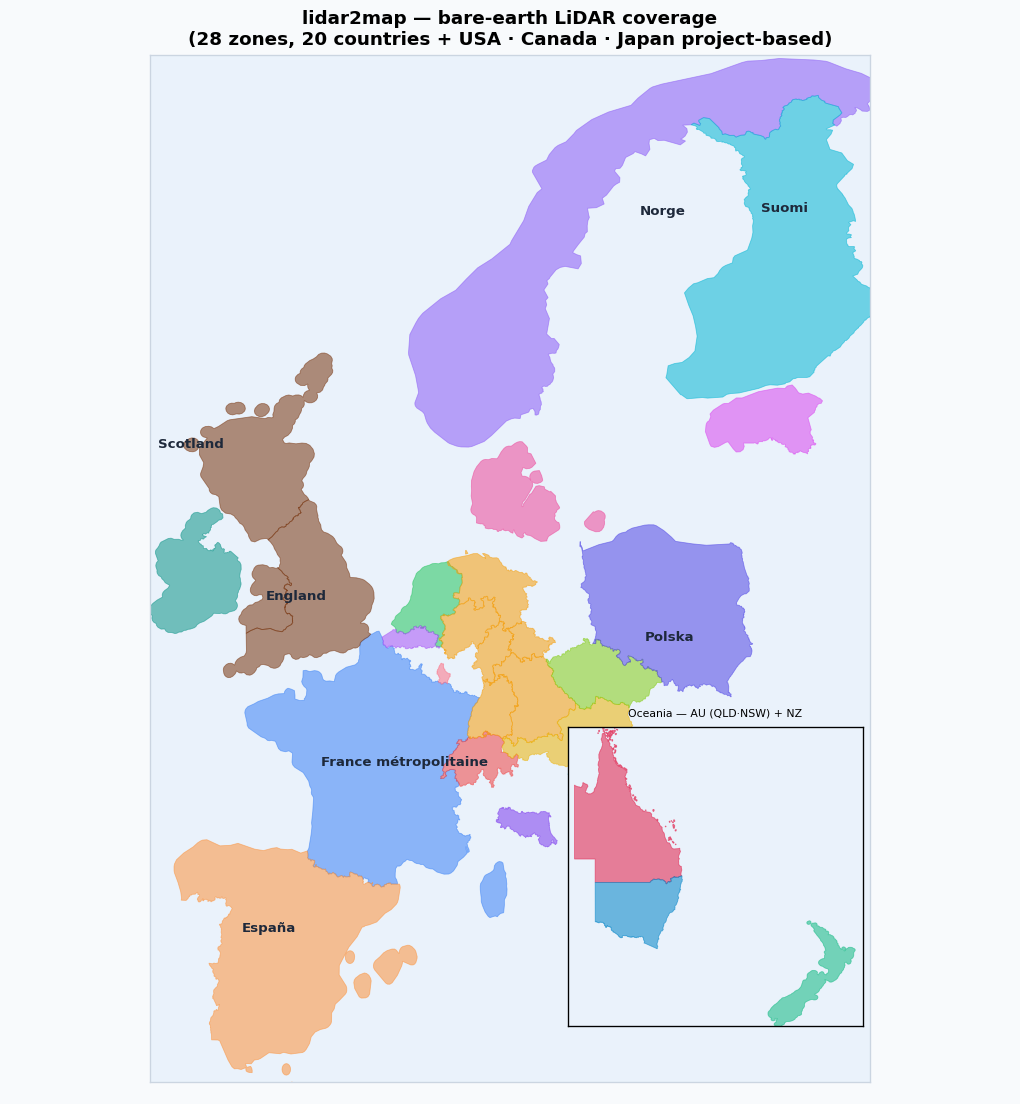
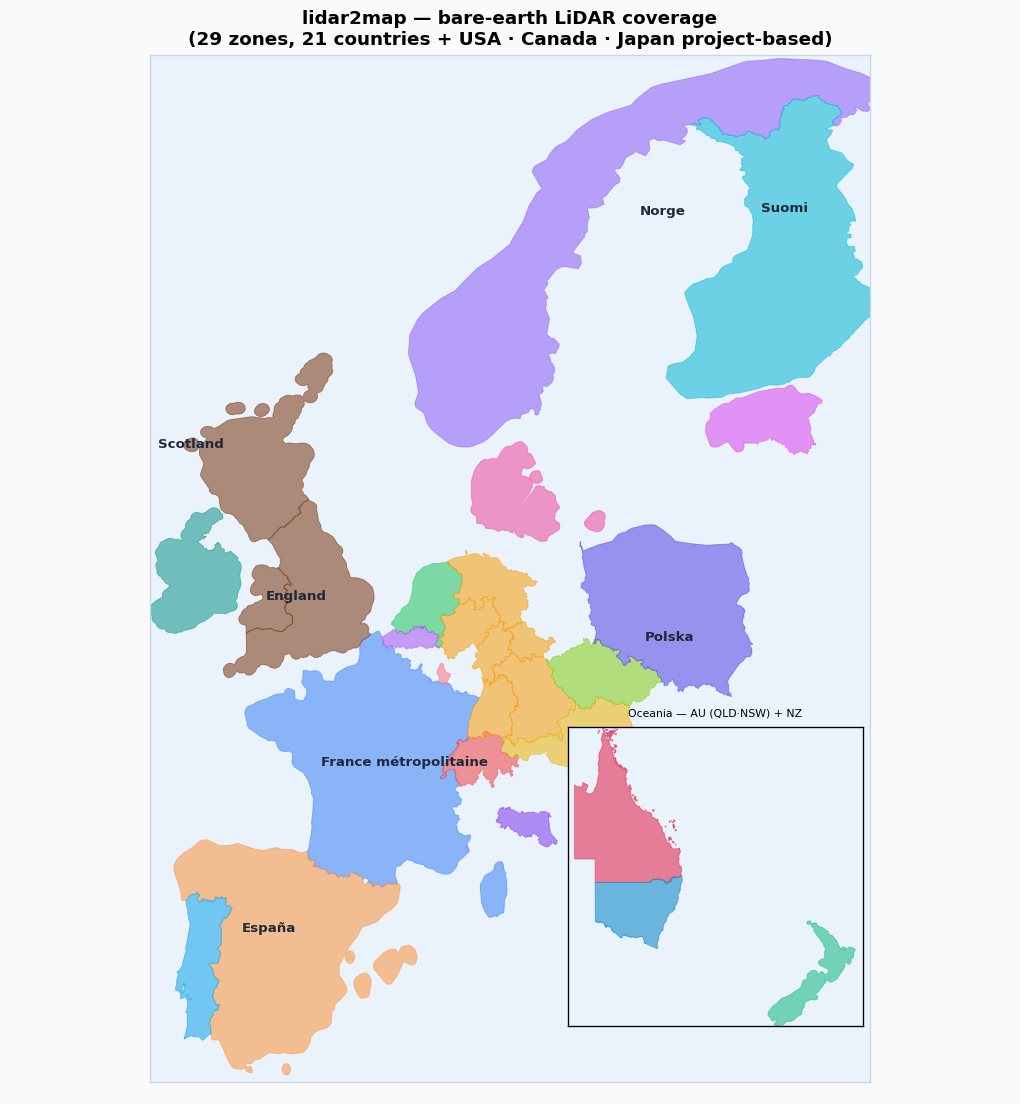
nouveau provider pt-dgt: MDT LiDAR 50cm NATIONAL Portugal (DGT 2024). OGC-API dgt-be/v1 (reponses enveloppees) + POST /search CQL2 intersects (le bbox GET est ignore), pagination par token, millesime recent par feuille, EPSG:3763, tuiles 1km 2000px. Login Keycloak (http.cookiejar, opener global a co

Changed region(s): [[0.152, 0.8007, 0.2431, 0.9547], [0.3039, 0.0308, 0.3343, 0.0616]]

diff --git a/providers/pt_dgt.py b/providers/pt_dgt.py
@@ -1,0 +1,198 @@
+# providers/pt_dgt.py — Portugal continental, MDT LiDAR 50 cm via OGC-API DGT
+#
+# Source : Direção-Geral do Território (DGT) — Centro de Dados, levé LiDAR
+#   national 2024 (10 pts/m², précision alti 10 cm). MDT (terrain) 50 cm.
+#   Portail : https://cdd.dgterritorio.gov.pt/dgt-fe/catalogos
+#   Datasets : dados.gov.pt « Dados LiDAR de Portugal continental » (accès livre).
+#
+# Paradigme : OGC-API Features/STAC-like derrière le proxy `dgt-be` (reversé
+# depuis le SPA, non documenté officiellement mais stable et versionné /v1).
+#   - API : https://cdd.dgterritorio.gov.pt/dgt-be/v1 — réponses ENVELOPPÉES
+#     {"status":..,"message":..,"data":<payload>}.
+#   - Le param bbox de GET /collections/<id>/items est IGNORÉ côté serveur ;
+#     la recherche spatiale = POST /search en CQL2-JSON
+#     {"filter-lang":"cql2-json","filter":{"op":"intersects",...},
+#      "collections":["MDT-50cm"],"limit":N} (anonyme, pagination par lien next).
+#   - Tuiles 1×1 km EPSG:3763 (PT-TM06/ETRS89), item id =
+#     MDT-50cm-<feuille>-MM-YYYY ; plusieurs millésimes possibles par feuille →
+#     on garde le plus récent (comme at-bev/ca-nrcan).
+#   - Asset "data" = GeoTIFF float32 2000×2000 servi par
+#     /dgt-be/v1/download/<token> : le download EXIGE une session (compte DGT
+#     gratuit, login Keycloak). Le provider fait le login au discover (flux
+#     formulaire kc-form-login, http.cookiejar stdlib) et INSTALLE un opener
+#     urllib global à cookies : les téléchargements du cœur (urllib) portent
+#     alors la session sans modification du pipeline. Cookies host-scopés,
+#     inoffensif pour les autres providers. Chaque discover (donc chaque chunk)
+#     rafraîchit la session.
+#   - Identifiants : env DGT_USER / DGT_PASS (jamais en dur, jamais en config).
+#   - Licence : dados abertos, « publicamente e gratuitamente, sem restrições ».
+#
+# Self-contained : stdlib uniquement.
+
+import http.cookiejar
+import json
+import os
+import re
+import urllib.parse
+import urllib.request
+
+
+# ── Identification ───────────────────────────────────────────────────────────
+NAME       = "Portugal — MDT LiDAR 50 cm (DGT, 2024)"
+CODE       = "pt-dgt"
+COUNTRY    = "pt"
+LICENSE    = "Dados abertos — © Direção-Geral do Território"
+DOC_URL    = "https://www.dgterritorio.gov.pt/Levantamento-LiDAR-de-Portugal-Continental"
+
+# La GUI affiche un rappel credentials pour les providers à compte (cf. fi/dk).
+APIKEY_REQUISE = False   # pas de clé API : env DGT_USER/DGT_PASS
+
+
+# ── Géométrie ────────────────────────────────────────────────────────────────
+CRS_NATIF          = "EPSG:3763"          # PT-TM06 / ETRS89 (mètres)
+RESOLUTION_M       = 0.5                   # MDT 50 cm
+DALLE_KM           = 1                     # tuile 1×1 km → 2000×2000 px
+PX_PAR_DALLE       = int(DALLE_KM * 1000 / RESOLUTION_M)  # 2000
+SEUIL_DALLE_VALIDE = 200_000              # float32 2000² (16 Mo brut) >> page HTML
+
+
+# ── Endpoints ────────────────────────────────────────────────────────────────
+API        = "https://cdd.dgterritorio.gov.pt/dgt-be/v1"
+LOGIN_URL  = "https://cdd.dgterritorio.gov.pt/auth/login"
+COLLECTION = "MDT-50cm"
+HTTP_UA    = "lidar2map/1.0 (PT DGT MDT)"
+# Étendue Portugal continental en EPSG:3763 (approx, clip grossier)
+COVERAGE_EXTENT = (-120000, -310000, 165000, 280000)
+
+_ID_RE = re.compile(rf"{COLLECTION}-(\d+)-(\d{{2}})-(\d{{4}})$")
+
+
+# ── Nommage ──────────────────────────────────────────────────────────────────
+def dalle_filename(feuille):
+    return f"pt_mdt50_{feuille}.tif"
+
+
+def dalle_subdir(feuille):
+    return str(feuille)[:3]
+
+
+def subdir_from_name(nom):
+    m = re.match(r"pt_mdt50_(\d+)\.tif$", nom)
+    return m.group(1)[:3] if m else None
+
+
+def dalle_url(x_km, y_km):
+    raise NotImplementedError("PT : URL via POST /search → discover_dalles()")
+
+
+def dalles_pour_bbox(x1, y1, x2, y2):
+    raise NotImplementedError("PT : utiliser discover_dalles()")
+
+
+# ── Session (login Keycloak, opener global à cookies) ────────────────────────
+_session_prete = False
+
+
+def _login():
+    """Login Keycloak (formulaire kc-form-login) et installation d'un opener
+    urllib GLOBAL à cookies : les downloads du cœur portent la session DGT.
+    Lève RuntimeError si les identifiants manquent ou sont refusés."""
+    global _session_prete
+    user = os.environ.get("DGT_USER")
+    pwd  = os.environ.get("DGT_PASS")
+    if not user or not pwd:
+        raise RuntimeError(
+            "pt-dgt: set DGT_USER and DGT_PASS environment variables "
+            "(free account: https://cdd.dgterritorio.gov.pt/auth/login)")
+    jar = http.cookiejar.CookieJar()
+    opener = urllib.request.build_opener(urllib.request.HTTPCookieProcessor(jar))
+    opener.addheaders = [("User-Agent", HTTP_UA)]
+    # 1. page de login (redirige vers Keycloak, pose les cookies de flow)
+    with opener.open(LOGIN_URL, timeout=60) as r:
+        html = r.read().decode("utf-8", "replace")
+    m = (re.search(r'<form[^>]*id="kc-form-login"[^>]*action="([^"]+)"', html)
+         or re.search(r'<form[^>]*action="([^"]+)"[^>]*method="post"', html, re.I))
+    if not m:
+        raise RuntimeError("pt-dgt: Keycloak login form not found (portal changed?)")
+    action = m.group(1).replace("&amp;", "&")
+    # 2. POST credentials → redirigé vers l'app avec la session posée
+    data = urllib.parse.urlencode({"username": user, "password": pwd,
+                                   "credentialId": ""}).encode()
+    with opener.open(urllib.request.Request(action, data=data), timeout=60) as r2:
+        final = r2.geturl()
+    if "auth.cdd" in final:
+        raise RuntimeError("pt-dgt: login refused (check DGT_USER/DGT_PASS)")
+    # 3. opener global : urllib.request.urlopen (le cœur) porte les cookies.
+    urllib.request.install_opener(opener)
+    _session_prete = True
+    print("  PT DGT: authenticated session installed (Keycloak)")
+
+
+# ── Découverte : POST /search CQL2 par bbox ──────────────────────────────────
+def _post_search(body):
+    req = urllib.request.Request(
+        f"{API}/search", data=json.dumps(body).encode(),
+        headers={"User-Agent": HTTP_UA, "Content-Type": "application/json",
+                 "Accept": "application/json"})
+    with urllib.request.urlopen(req, timeout=90) as r:
+        d = json.loads(r.read())
+    return d.get("data", d)     # réponses enveloppées {status,message,data}
+
+
+def discover_dalles(bbox_wgs84, bbox_natif, cache_path, workers=1):
+    """{pt_mdt50_<feuille>.tif: url} des tuiles MDT-50cm intersectant la zone.
+
+    POST /search CQL2 intersects (le bbox GET est ignoré par ce serveur),
+    pagination par lien 'next', millésime le plus récent par feuille. Le login
+    (session download) est fait ICI : chaque chunk re-discover → session fraîche."""
+    if bbox_wgs84 is None:
+        return {}
+    lon1, lat1, lon2, lat2 = bbox_wgs84
+    poly = {"type": "Polygon", "coordinates": [[
+        [lon1, lat1], [lon2, lat1], [lon2, lat2], [lon1, lat2], [lon1, lat1]]]}
+
+    try:
+        _login()
+    except RuntimeError as e:
+        print(f"  ERROR {e}")
+        return None
+
+    body = {"filter-lang": "cql2-json",
+            "filter": {"op": "intersects",
+                       "args": [{"property": "geometry"}, poly]},
+            "collections": [COLLECTION], "limit": 200}
+    meilleurs = {}   # feuille -> (annee, mois, href)
+    n_pages = 0
+    while True:
+        try:
+            data = _post_search(body)
+        except Exception as e:
+            print(f"  ERROR PT DGT search: {type(e).__name__}: {e}")
+            return None
+        feats = data.get("features", [])
+        n_pages += 1
+        for it in feats:
+            m = _ID_RE.search(it.get("id", ""))
+            href = ((it.get("assets") or {}).get("data") or {}).get("href")
+            if not m or not href:
+                continue
+            feuille, mois, annee = m.group(1), int(m.group(2)), int(m.group(3))
+            prev = meilleurs.get(feuille)
+            if prev is None or (annee, mois) > (prev[0], prev[1]):
+                meilleurs[feuille] = (annee, mois, href)
+        # pagination : lien rel=next (body de POST à réémettre avec son token)
+        nxt = next((ln for ln in data.get("links", [])
+                    if ln.get("rel") == "next"), None)
+        if not nxt or not feats:
+            break
+        nb = nxt.get("body") or {}
+        if not nb:
+            break
+        body = {**body, **nb}
+        if n_pages > 50:      # garde-fou anti-boucle
+            break
+
+    dalles = {dalle_filename(f): href for f, (_a, _m, href) in meilleurs.items()}
+    print(f"  PT DGT (MDT 50 cm): {len(dalles)} tile(s) in the zone"
+          f" ({n_pages} page(s), latest survey per sheet)")
+    return dalles

diff --git a/tests/smoke_providers.py b/tests/smoke_providers.py
@@ -65,10 +65,13 @@ TEST_POINTS = {
     "de-bw": (9.183, 48.775),               # Stuttgart (WCS DGM1 LGL)
     "at-bev": (13.050, 47.800),             # Salzbourg (COG fenêtré, 412-632 m)
     "it-emilia-romagna": (11.300, 44.450),  # collines de Bologne (60-395 m)
+    "pt-dgt": (-9.19, 38.73),               # Monsanto, Lisbonne (MDT 50 cm)
 }
 APIKEY_ENV = {"us-3dep": "OPENTOPOGRAPHY_API_KEY",
               "dk-datafordeler": "DATAFORDELER_TOKEN",
               "fi-maanmittauslaitos": "FI_NLS_API_KEY"}
+# Providers à compte (user/pass en env, pas une clé unique) : SKIP si absents.
+CRED_ENV = {"pt-dgt": ("DGT_USER", "DGT_PASS")}
 _DEP = ("laspy", "lazrs", "pdal", "laszip")
 
 
@@ -103,6 +106,11 @@ def smoke_one(code, mod, lon, lat):
             return "SKIP", "cle API absente"
         if hasattr(mod, "set_apikey"):
             mod.set_apikey(key)
+    # Providers à compte (login user/pass) : SKIP si les env vars manquent
+    # (CI sans secret) plutôt qu'un FAIL 'discover -> None'.
+    if code in CRED_ENV:
+        if not all(os.environ.get(e, "").strip() for e in CRED_ENV[code]):
+            return "SKIP", f"identifiants absents ({'/'.join(CRED_ENV[code])})"
 
     try:
         with tempfile.TemporaryDirectory() as dd:

diff --git a/coverage_map.py b/coverage_map.py
@@ -55,6 +55,8 @@ REGIONS = [
     ("Slovenija",              ["si-arso"],          "#14b8a6", None, None),
     ("Eesti",                  ["ee-maaamet"],       "#d946ef", (21.5, 57.4, 28.3, 59.9), None),
     ("España",                 ["es-cnig"],          "#fb923c", (-10.0, 35.5, 4.6, 44.5), None),
+    ("Portugal continental",   ["pt-dgt"],           "#0ea5e9", (-9.9, 36.8, -6.0, 42.3),
+     "Portugal — MDT LiDAR 50 cm (DGT)"),
     ("Emilia-Romagna, Italia", ["it-emilia-romagna"], "#7c3aed", None,
      "Italie — Émilie-Romagne (DTM 5 m)"),
     ("Polska",                 ["pl-gugik"],         "#4f46e5", None, None),
@@ -85,6 +87,7 @@ COUNTRY_NAMES = [
     ("si", "Slovenia", "Slovénie"),
     ("ee", "Estonia", "Estonie"),
     ("es", "Spain", "Espagne"),
+    ("pt", "Portugal", "Portugal"),
     ("it", "Italy", "Italie"),
     ("pl", "Poland", "Pologne"),
     ("us", "USA", "USA"),

diff --git a/README.fr.md b/README.fr.md
@@ -6,7 +6,7 @@
 
 **Cartes offline LiDAR archéologique multi-pays + IGN raster/vecteur + OSM pour Locus Map / OsmAnd / TwoNav**
 
-Outil autonome (exécutables Windows / macOS / Linux sans Python à installer, ou script Python unique) qui télécharge les données LiDAR publiques de portails nationaux dans **<!--N-->23<!--/N--> pays** (<!--LIST-->France, Royaume-Uni, Allemagne, Autriche, Pays-Bas, Suisse, Norvège, Belgique, Luxembourg, Finlande, Danemark, Irlande, Tchéquie, Slovénie, Estonie, Espagne, Italie, Pologne, USA, Canada, Nouvelle-Zélande, Australie, Japon<!--/LIST-->), calcule des ombrages spécialisés pour la prospection archéologique, et génère des cartes utilisables hors-ligne sur smartphone (formats MBTiles, RMAP, SQLiteDB, Mapsforge). Les cartes raster/vecteur IGN restent France-only.
+Outil autonome (exécutables Windows / macOS / Linux sans Python à installer, ou script Python unique) qui télécharge les données LiDAR publiques de portails nationaux dans **<!--N-->24<!--/N--> pays** (<!--LIST-->France, Royaume-Uni, Allemagne, Autriche, Pays-Bas, Suisse, Norvège, Belgique, Luxembourg, Finlande, Danemark, Irlande, Tchéquie, Slovénie, Estonie, Espagne, Portugal, Italie, Pologne, USA, Canada, Nouvelle-Zélande, Australie, Japon<!--/LIST-->), calcule des ombrages spécialisés pour la prospection archéologique, et génère des cartes utilisables hors-ligne sur smartphone (formats MBTiles, RMAP, SQLiteDB, Mapsforge). Les cartes raster/vecteur IGN restent France-only.
 
 ![Même lieu : satellite, OpenStreetMap, puis relief LiDAR (SVF)](screenshots/hero.png)
 
@@ -16,7 +16,7 @@ Outil autonome (exécutables Windows / macOS / Linux sans Python à installer, o
 
 ---
 
-**Ton pays est-il couvert ?** <!--N-->23<!--/N--> pays en LiDAR sol-nu (dont USA, Canada & Japon en couverture par projet). Repère ta zone avant de te lancer :
+**Ton pays est-il couvert ?** <!--N-->24<!--/N--> pays en LiDAR sol-nu (dont USA, Canada & Japon en couverture par projet). Repère ta zone avant de te lancer :
 
 ![Carte de couverture LiDAR lidar2map](coverage.fr.png)
 
@@ -26,7 +26,7 @@ Outil autonome (exécutables Windows / macOS / Linux sans Python à installer, o
 
 ## Pour qui ?
 
-- **Archéologues amateurs** intéressés par la prospection LiDAR : l'outil fonctionne dans **<!--N-->23<!--/N--> pays** (<!--LIST-->France, Royaume-Uni, Allemagne, Autriche, Pays-Bas, Suisse, Norvège, Belgique, Luxembourg, Finlande, Danemark, Irlande, Tchéquie, Slovénie, Estonie, Espagne, Italie, Pologne, USA, Canada, Nouvelle-Zélande, Australie, Japon<!--/LIST-->), avec d'autres en cours. Les calculs d'ombrages (multi, SVF, openness, LRM, RRIM, VAT) sont identiques d'un pays à l'autre.
+- **Archéologues amateurs** intéressés par la prospection LiDAR : l'outil fonctionne dans **<!--N-->24<!--/N--> pays** (<!--LIST-->France, Royaume-Uni, Allemagne, Autriche, Pays-Bas, Suisse, Norvège, Belgique, Luxembourg, Finlande, Danemark, Irlande, Tchéquie, Slovénie, Estonie, Espagne, Portugal, Italie, Pologne, USA, Canada, Nouvelle-Zélande, Australie, Japon<!--/LIST-->), avec d'autres en cours. Les calculs d'ombrages (multi, SVF, openness, LRM, RRIM, VAT) sont identiques d'un pays à l'autre.
 - **Randonneurs français** qui veulent des cartes IGN topo offline sur téléphone (Locus Map Pro, OsmAnd+) : les onglets IGN raster/vecteur restent France-only.
 - **Prospecteurs paysage** qui combinent orthophotos historiques (1950-1995, France) et MNT pour repérer les vestiges humains avant la déprise agricole.
 - **Spéléologues / explorateurs** qui ont besoin de fonds de carte précis dans des zones non couvertes par les apps grand public.
@@ -76,7 +76,7 @@ L'outil n'est **pas** destiné à la détection métallique. Le code respecte st
   instance ajoutée a son propre mini-formulaire de paramètres.
   `--svf-sweep` / `--no-svf-sweep` (kernel sweep-horizon, SVF uniquement) reste global.
 
-  Sources LiDAR : **<!--N-->23<!--/N--> pays** via le flag `--provider <code>` (ou le dropdown
+  Sources LiDAR : **<!--N-->24<!--/N--> pays** via le flag `--provider <code>` (ou le dropdown
   de la GUI), France (défaut), Pays-Bas, Suisse, Norvège, Allemagne (6 Länder),
   Autriche (national + Tyrol), Royaume-Uni, Belgique (Flandre), Finlande, Danemark,
   Irlande, Tchéquie, Slovénie, Estonie, Espagne, Italie (Émilie-Romagne), Pologne, USA, Canada, Nouvelle-Zélande,
@@ -317,6 +317,7 @@ Le pipeline en aval (SVF, ombrages, warp EPSG:3857, MBTiles) est provider-agnost
 | `ee-maaamet` | Estonie | DTM 1 m (ALS 2021-2024) | 1 m | EPSG:3301 (L-EST97) | URLs directes par feuille 1:10000 (numérotation = formule pure, pas d'index), couverture nationale, open data |
 | `es-cnig` | Espagne | MDT | 5 m | EPSG:25830 (UTM30N) | WCS 2.0.1 INSPIRE, 5 m = échelle paysage (le LiDAR 2 m sol-nu exige le portail à session CNIG) |
 | `es-icgc` | Espagne (Catalogne) | MET LiDAR | 0,5 m | EPSG:25831 (UTM31N) | COG régional unique (~433 Go) lu en **fenêtré** via HTTP range `/vsicurl`, 50 cm, bien plus fin que es-cnig 5 m ; CC BY 4.0 (ICGC) |
+| `pt-dgt` | Portugal | MDT LiDAR (2024) | 0,5 m | EPSG:3763 (PT-TM06) | OGC-API + POST /search (CQL2), couverture nationale ; **compte DGT gratuit** (env `DGT_USER`/`DGT_PASS`) pour le download authentifié |
 | `it-emilia-romagna` | Italie (Émilie-Romagne) | DTM (RER) | 5 m | EPSG:7791 (RDN2008/UTM32N) | WCS 2.0.1 GetCoverage, couverture régionale, CC BY 4.0 (le 0,5 m LiDAR 2023/24 sera servi quand sa couverture sera complète) |
 | `pl-gugik` | Pologne | NMT (projet ISOK) | 1 m | EPSG:2180 (PUWG 1992) | WCS 2.0.1, données ouvertes, couverture nationale |
 | `ca-nrcan` | Canada | HRDEM Mosaic | 1 m | EPSG:3979 (LCC Canada) | STAC + COG mosaïque (lecture fenêtrée), ~95 % de la population |
@@ -367,7 +368,6 @@ en **WMS seul** (rendu, pas d'altitude brute) ou en **ASC sans CRS**.
 
 | Zone | Statut | Pourquoi pas (encore) |
 |---|---|---|
-| Portugal | 🔄 en attente | MDT 0,5 m national ouvert, mais téléchargement par panier interactif seulement, pas d'API par emprise (la DGT en annonce une « à venir »). |
 | Wallonie (BE) | 🔄 en attente | MNT 0,5/1 m ouvert, mais livraison par panier e-mail (48 h), pas de service par tuile / WCS. |
 | Saxe · Bade-Wurtemberg (DE) | 🔄 en attente | DGM1 1 m ouvert, mais derrière un portail de sélection JS sans URL de tuile stable documentée. |
 | Lettonie | 🔄 en attente | DTM 0,4 m, téléchargement non public (WMS sur demande e-mail). |

diff --git a/README.md b/README.md
@@ -6,7 +6,7 @@
 
 **Offline archaeological LiDAR maps, multi-country + IGN raster/vector + OSM, for Locus Map / OsmAnd / TwoNav**
 
-A self-contained tool (standalone executables for Windows / macOS / Linux, no Python required; also runs as a single Python script) that downloads public LiDAR data from national portals across **<!--N-->23<!--/N--> countries** (<!--LIST-->France, UK, Germany, Austria, Netherlands, Switzerland, Norway, Belgium, Luxembourg, Finland, Denmark, Ireland, Czechia, Slovenia, Estonia, Spain, Italy, Poland, USA, Canada, New Zealand, Australia, Japan<!--/LIST-->), computes relief visualizations tuned for archaeological prospection, and generates maps usable offline on a smartphone (MBTiles, RMAP, SQLiteDB, Mapsforge formats). The IGN raster/vector maps remain France-only.
+A self-contained tool (standalone executables for Windows / macOS / Linux, no Python required; also runs as a single Python script) that downloads public LiDAR data from national portals across **<!--N-->24<!--/N--> countries** (<!--LIST-->France, UK, Germany, Austria, Netherlands, Switzerland, Norway, Belgium, Luxembourg, Finland, Denmark, Ireland, Czechia, Slovenia, Estonia, Spain, Portugal, Italy, Poland, USA, Canada, New Zealand, Australia, Japan<!--/LIST-->), computes relief visualizations tuned for archaeological prospection, and generates maps usable offline on a smartphone (MBTiles, RMAP, SQLiteDB, Mapsforge formats). The IGN raster/vector maps remain France-only.
 
 ![Same place: satellite, OpenStreetMap, then LiDAR relief (SVF)](screenshots/hero.png)
 
@@ -18,7 +18,7 @@ A self-contained tool (standalone executables for Windows / macOS / Linux, no Py
 
 ---
 
-**Is your country covered?** <!--N-->23<!--/N--> countries with bare-earth LiDAR (incl. USA, Canada & Japan, project-based). Check your area before diving in:
+**Is your country covered?** <!--N-->24<!--/N--> countries with bare-earth LiDAR (incl. USA, Canada & Japan, project-based). Check your area before diving in:
 
 ![lidar2map LiDAR coverage map](coverage.png)
 
@@ -28,7 +28,7 @@ A self-contained tool (standalone executables for Windows / macOS / Linux, no Py
 
 ## Who is it for?
 
-- **Amateur archaeologists** interested in LiDAR prospection: the tool works across **<!--N-->23<!--/N--> countries** (<!--LIST-->France, UK, Germany, Austria, Netherlands, Switzerland, Norway, Belgium, Luxembourg, Finland, Denmark, Ireland, Czechia, Slovenia, Estonia, Spain, Italy, Poland, USA, Canada, New Zealand, Australia, Japan<!--/LIST-->) with more in progress. The relief computations (multi, SVF, openness, LRM, RRIM, VAT) are identical from one country to the next.
+- **Amateur archaeologists** interested in LiDAR prospection: the tool works across **<!--N-->24<!--/N--> countries** (<!--LIST-->France, UK, Germany, Austria, Netherlands, Switzerland, Norway, Belgium, Luxembourg, Finland, Denmark, Ireland, Czechia, Slovenia, Estonia, Spain, Portugal, Italy, Poland, USA, Canada, New Zealand, Australia, Japan<!--/LIST-->) with more in progress. The relief computations (multi, SVF, openness, LRM, RRIM, VAT) are identical from one country to the next.
 - **French hikers** who want offline IGN topo maps on their phone (Locus Map Pro, OsmAnd+): the IGN raster/vector tabs remain France-only.
 - **Landscape surveyors** who combine historical orthophotos (1950-1995, France) with a DEM to spot human remains before agricultural land abandonment erases them.
 - **Cavers / explorers** who need accurate base maps in areas not covered by mainstream apps.
@@ -78,7 +78,7 @@ From a town, GPS coordinates, a bbox, a département or a whole region:
   instance has its own little parameter form.
   `--svf-sweep` / `--no-svf-sweep` (sweep-horizon kernel, SVF only) stays global.
 
-  LiDAR sources: **<!--N-->23<!--/N--> countries** via the `--provider <code>` flag (or the GUI
+  LiDAR sources: **<!--N-->24<!--/N--> countries** via the `--provider <code>` flag (or the GUI
   dropdown), France (default), Netherlands, Switzerland, Norway, Germany
   (6 Länder), Austria (national + Tyrol), United Kingdom, Belgium (Flanders), Finland,
   Denmark, Ireland, Czechia, Slovenia, Estonia, Spain, Italy (Emilia-Romagna), Poland, USA, Canada, New Zealand,
@@ -319,6 +319,7 @@ The downstream pipeline (SVF, relief, EPSG:3857 warp, MBTiles) is provider-agnos
 | `ee-maaamet` | Estonia | DTM 1 m (2021-2024 ALS) | 1 m | EPSG:3301 (L-EST97) | Direct per-sheet URLs, 1:10000 grid (sheet numbering = pure formula, no index), national coverage, open data |
 | `es-cnig` | Spain | MDT | 5 m | EPSG:25830 (UTM30N) | WCS 2.0.1 INSPIRE, 5 m = landscape scale (the 2 m bare-earth LiDAR requires the session-based CNIG portal) |
 | `es-icgc` | Spain (Catalonia) | MET LiDAR | 0.5 m | EPSG:25831 (UTM31N) | Single regional COG (~433 GB) read **windowed** via `/vsicurl` HTTP range, 50 cm, far finer than es-cnig 5 m; CC BY 4.0 (ICGC) |
+| `pt-dgt` | Portugal | MDT LiDAR (2024) | 0.5 m | EPSG:3763 (PT-TM06) | OGC-API + POST /search (CQL2), national coverage; **free DGT account** (env `DGT_USER`/`DGT_PASS`) for the authenticated download |
 | `it-emilia-romagna` | Italy (Emilia-Romagna) | DTM (RER) | 5 m | EPSG:7791 (RDN2008/UTM32N) | WCS 2.0.1 GetCoverage, regional coverage, CC BY 4.0 (the 0.5 m LiDAR 2023/24 is served once its coverage completes) |
 | `pl-gugik` | Poland | NMT (ISOK project) | 1 m | EPSG:2180 (PUWG 1992) | WCS 2.0.1, open data, national coverage |
 | `ca-nrcan` | Canada | HRDEM Mosaic | 1 m | EPSG:3979 (LCC Canada) | STAC + mosaic COG (windowed read), ~95% of population |